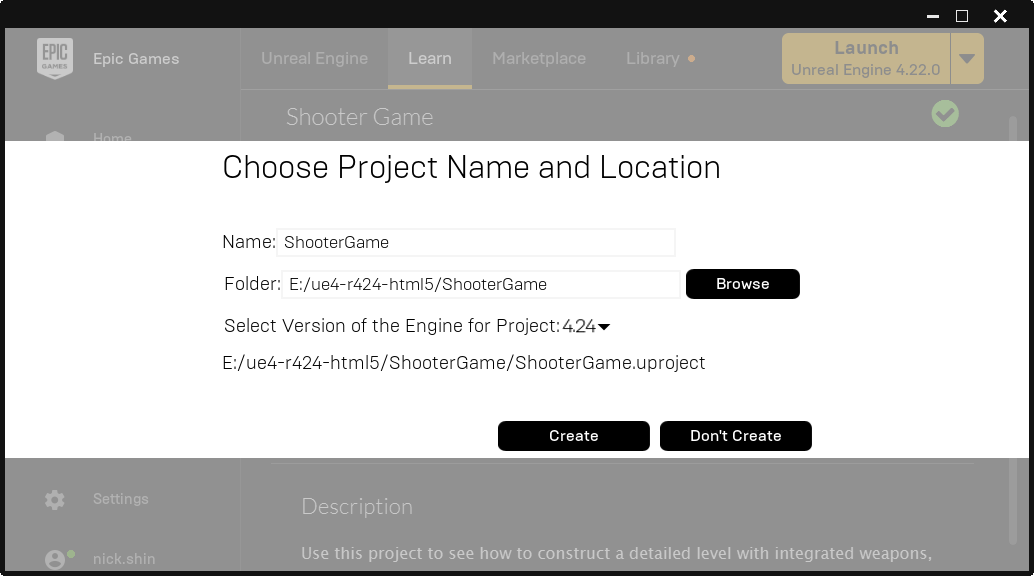
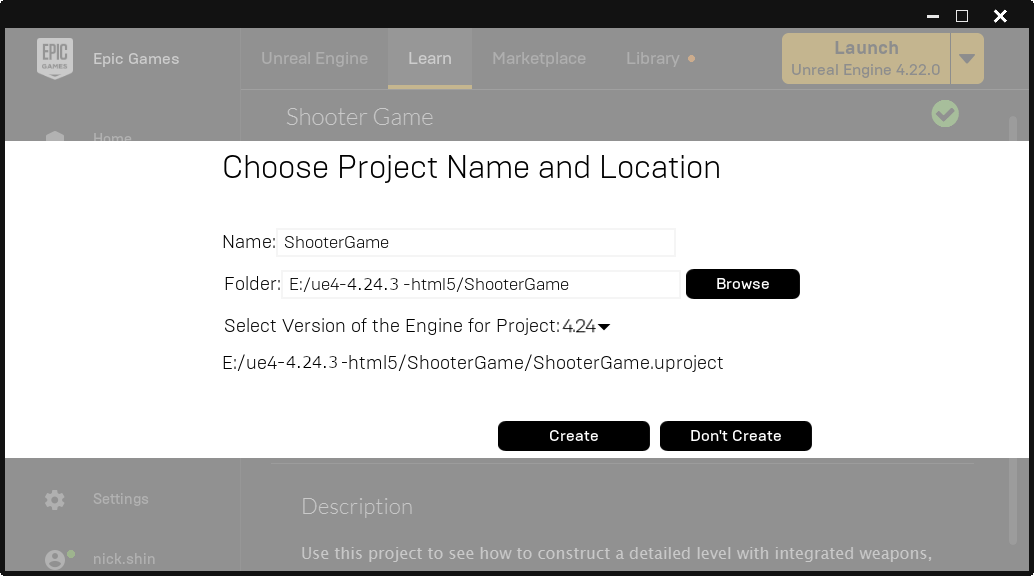
update UE4 HTML5's docs to use 4.24.3-html5-1.39.18 branch

Changed region(s): [[0.2785, 0.5938, 0.7118, 0.6562], [0.3404, 0.4688, 0.5571, 0.5]]

diff --git a/Platforms/HTML5/HowTo/README.1.emscripten.UE4.HTML5.md b/Platforms/HTML5/HowTo/README.1.emscripten.UE4.HTML5.md
@@ -15,7 +15,7 @@ this page will show you how to:
 ## First Things First
 
 back in [Get Source File](README.0.building.UE4.Editor.md#get-source-files), a clone of a
-special branch based on Release-4.24 was used (which was put in (e.g.) `.../ue4-r424-html5`
+special branch based on Release-4.24.3 was used (which was put in (e.g.) `.../ue4-4.24.3-html5`
 and will be used in this HowTo page) -- with the HTML5 platform files already populated.
 
 - NOTE: this is the last snapshot for HTML5 that is now "no longer supported" by Epic Games
@@ -58,7 +58,7 @@ in order to package Unreal Engine for HTML5, we need to perform a number of step
 to get the UE4 Editor able to package for HTML5.
 - NOTE: this only needs to be done **once** (per local repo)
 
-all of these steps are all gathered in the (e.g.) `.../ue4-r424-html5/Engine/Platforms/HTML5/HTML5Setup.sh`
+all of these steps are all gathered in the (e.g.) `.../ue4-4.24.3-html5/Engine/Platforms/HTML5/HTML5Setup.sh`
 build scripts.
 
 
@@ -68,8 +68,8 @@ open `git-bash`
 - this was installed as part of the
 	[Development Environment Requirements](README.0.building.UE4.Editor.md#development-environment-requirements) section
 - change the directory to where your UE4 was cloned to
-	- e.g. `cd ue4-r424-html5`
-- or, you can use **File Explorer** and right click on the **ue4-r424-html5** folder and select `Git Bash Here`
+	- e.g. `cd ue4-4.24.3-html5`
+- or, you can use **File Explorer** and right click on the **ue4-4.24.3-html5** folder and select `Git Bash Here`
 
 
 ### on Mac and Linux
@@ -78,7 +78,7 @@ open the Terminal
 
 - change directory to the location where UE4 was cloned to (as we have seen
 	in the [Generate Project/Make Files](README.0.building.UE4.Editor.md#generate-projectmake-files) section)
-	- e.g. `cd ue4-r424-html5`
+	- e.g. `cd ue4-4.24.3-html5`
 
 
 ### Fetch EMSDK and Build ThirdPary Libraries for HTML5
@@ -87,7 +87,7 @@ in `git-bash` (for windows) or in the `terminal` (for mac or linux), do the
 following (yes, these commands will work the same on all 3 OS):
 
 ```bash
-# remember, we are now in the ue4-r424-html5 folder
+# remember, we are now in the ue4-4.24.3-html5 folder
 cd Engine/Platforms/HTML5
 ./HTML5Setup.sh
 ```
@@ -168,7 +168,7 @@ let's go over this part [again](README.0.building.UE4.Editor.md#window-2) now th
 					just in case you are see rendering issues on your projects
 		- Platforms -> HTML5
 			- Emscripten -> **Multithreading support**
-				- for 4.24 -- this MUST be enabled (there's a (animation curve) crash bug in single threaded mode
+				- for 4.24 (as well as 4.24.3) -- this MUST be enabled (there's a (animation curve) crash bug in single threaded mode
 					that is slated to be fixed in 4.25)
 
 
@@ -561,7 +561,7 @@ above.
 in `git-bash` (for windows) or in the `terminal` (for mac or linux):
 
 ```bash
-# remember, we are now in the ue4-r424-html5 folder
+# remember, we are now in the ue4-4.24.3-html5 folder
 cd Engine/Platforms/HTML5
 ./HTML5Setup.sh
 ```
@@ -579,7 +579,7 @@ again, this may take an hour or so to complete.
 ### HTML5Setup.sh Deep Dive
 
 follow along this explaination by opening a page to
-[HTML5Setup.sh](https://github.com/UnrealEngineHTML5/UnrealEngine/blob/4.24-html5/Engine/Platforms/HTML5/HTML5Setup.sh)
+[HTML5Setup.sh](https://github.com/UnrealEngineHTML5/UnrealEngine/blob/4.24.3-html5-1.39.18/Engine/Platforms/HTML5/HTML5Setup.sh)
 file.
 - again: if you see a `404 This is not the web page you are looking for` error
 	- `Remember to link your Epic Games Account to your GitHub account.` See [HERE](../../../README.md) for more details.

diff --git a/Platforms/HTML5/HowTo/README.2.advanced.UE4.HTML5.md b/Platforms/HTML5/HowTo/README.2.advanced.UE4.HTML5.md
@@ -51,7 +51,7 @@ to download the **ShooterGame** project:
 - click on Create Project
 - pick the path to download the project to
 	- in this example, i have put ShooterGame in the same folder where **Engine**
-		is -- i.e. `.../ue4-r424-html5/ShooterGame`.  it doesn't have to be there.
+		is -- i.e. `.../ue4-4.24.3-html5/ShooterGame`.  it doesn't have to be there.
 		but, for this demo, you can put it there to follow along these instructions.
 - select the engine version: 4.24
 - click on Create
@@ -95,8 +95,8 @@ to start with.
 
 #### on Windows via CommandPrompt
 
-- open `CommandPrompt` to ue4-r424-html5
-	- e.g. `cd ...\ue4-r424-html5`
+- open `CommandPrompt` to ue4-4.24.3-html5
+	- e.g. `cd ...\ue4-4.24.3-html5`
 - re-generate the visual studio solution file
 	- `GenerateProjectFiles.bat`
 - open the generated visual studio solution (UE4.sln)
@@ -104,8 +104,8 @@ to start with.
 
 #### on Mac via Terminal
 
-- open `terminal` to ue4-r424-html5
-	- e.g. `cd .../ue4-r424-html5`
+- open `terminal` to ue4-4.24.3-html5
+	- e.g. `cd .../ue4-4.24.3-html5`
 - re-generate the xcode project file
 	- `GenerateProjectFiles.command`
 - open the generated xcode project (UE4.xcworkspace)
@@ -116,8 +116,8 @@ to start with.
 
 #### on Linux via Terminal
 
-- open `terminal` to ue4-r424-html5
-	- e.g. `cd .../ue4-r424-html5`
+- open `terminal` to ue4-4.24.3-html5
+	- e.g. `cd .../ue4-4.24.3-html5`
 - re-generate the Makefiles
 	- `GenerateProjectFiles.sh`
 - and then:
@@ -185,7 +185,7 @@ open a listening port to host a session.
 ### Configuring UE4 Projects with WebSocket Networking
 
 in the previous previous HowTo, it was mentioned that the clone of a special
-branch based on Release-4.24 was made with the HTML5 platform files already
+branch based on Release-4.24.3 was made with the HTML5 platform files already
 populated.  this includes **config.ini** files.
 
 in this HowTo, we will go through the steps to make UE4 networking projects work

diff --git a/Platforms/HTML5/HowTo/README.0.building.UE4.Editor.md b/Platforms/HTML5/HowTo/README.0.building.UE4.Editor.md
@@ -49,14 +49,14 @@ and, ensure you have the respective compiler tools for your desktop:
 * * *
 ## Get Source Files
 
-clone Unreal Engine (in this case, a fork of UE4 release 4.24 that has already
+clone Unreal Engine (in this case, a fork of UE4 release 4.24.3 that has already
 been branched with the HTML5 files populated in the `Unreal Engine platforms
 extension` path).
 
-in this example, clone to a folder named `ue4-r424-html5`
+in this example, clone to a folder named `ue4-4.24.3-html5`
 
 ```
-git clone -b 4.24-html5 --single-branch https://github.com/UnrealEngineHTML5/UnrealEngine ue4-r424-html5
+git clone -b 4.24.3-html5-1.39.18 --single-branch https://github.com/UnrealEngineHTML5/UnrealEngine ue4-4.24.3-html5
 ```
 
 remember, HTML5 is no longer an officially supported platform at Epic Games -- hence the `UnrealEngineHTML5` github account.
@@ -82,8 +82,8 @@ HEADS UP: the first time running this may take a while:
 ```
 # open git-bash
 # or, you can use "File Explorer" and right click on the
-# "ue4-r424-html5" folder and select "Git Bash Here"
-cd ue4-r424-html5
+# "ue4-4.24.3-html5" folder and select "Git Bash Here"
+cd ue4-4.24.3-html5
 ./Setup.bat
 
 cd Engine/Platforms/HTML5
@@ -99,7 +99,7 @@ cd -
 
 ```
 # open a terminal to
-cd ue4-r424-html5
+cd ue4-4.24.3-html5
 ./Setup.command
 
 cd Engine/Platforms/HTML5
@@ -115,7 +115,7 @@ cd -
 
 ```
 # open a terminal to
-cd ue4-r424-html5
+cd ue4-4.24.3-html5
 ./Setup.sh
 
 cd Engine/Platforms/HTML5

diff --git a/Platforms/HTML5/HTML5SDKRequirements/HTML5SDKRequirements.md b/Platforms/HTML5/HTML5SDKRequirements/HTML5SDKRequirements.md
@@ -17,6 +17,20 @@ In this page you'll find hardware and software development kit (SDK) requirement
 | **SDK Version** | Emscripten 1.39.0 |
 | **Supported Web Browsers** | [Google Chrome 64-bit](https://www.google.com/chrome/beta/), [Firefox 64-bit](https://www.mozilla.org/en-US/firefox/all/) |
 
+### Special: HTML5's Unreal Engine 4.24.3
+
+Note: Epic LOCKS down toolchains on all `major.minor` updates.
+They do not allow SDK version numbers to change during `major.minor.patch` updates.
+
+But, since HTML5 is community driven and emscription DOES NOT lock down the version numbers
+of TOOLS used (i.e. can be incremented at will -- again, this is the tools used -- not to
+be confused with emscripten itself), there are periods of time when upgrading the toolchain
+will become possible.  In this case, for UE 4.24.3, emscripten 1.39.18 is possible.
+
+| Software Requirements ||
+| --- | --- |
+| **SDK Version** | Emscripten 1.39.18 |
+
 
 ## Unreal Engine 4.23
 

diff --git a/README.md b/README.md
@@ -11,7 +11,7 @@ This is the documentation for the Community-supported HTML5 Platform Extension f
 * * *
 
 After **linking your [Epic Games Account](https://www.epicgames.com/account/connected) to your GitHub account**,
-you can find the HTML5 Platform Extenion repository [HERE](https://github.com/UnrealEngineHTML5/UnrealEngine/tree/4.24/Engine/Platforms/HTML5).
+you can find the HTML5 Platform Extenion repository [HERE](https://github.com/UnrealEngineHTML5/UnrealEngine/tree/4.24.3-html5-1.39.18/Engine/Platforms/HTML5).
 
 - NOTE: if you still see a `404 This is not the web page you are looking for` error
 	- Double check you have linked your Epic Games and GitHub accounts [#12](https://github.com/UnrealEngineHTML5/Documentation/issues/12#issuecomment-597729773)

diff --git a/Platforms/HTML5/HowTo/README.4.faq.UE4.HTML5.md b/Platforms/HTML5/HowTo/README.4.faq.UE4.HTML5.md
@@ -78,8 +78,8 @@ this should show you the crash stack.  begin the BUGHUNT!
 ### i already have UnrealEngine, how do i get the HTML5 platform extension
 
 ```bash
-git fetch https://github.com/UnrealEngineHTML5/UnrealEngine 4.24-html5
-git checkout 4.24-html5
+git fetch https://github.com/UnrealEngineHTML5/UnrealEngine 4.24.3-html5-1.39.18
+git checkout 4.24.3-html5-1.39.18
 ```
 
 

diff --git a/Platforms/HTML5/HowTo/README.3.debugging.UE4.HTML5.md b/Platforms/HTML5/HowTo/README.3.debugging.UE4.HTML5.md
@@ -161,7 +161,7 @@ __DATA__
 
 ```bash
 #!/bin/sh
-find /work/ue4-r424-html5/ShooterGame/Saved/ShaderDebugInfo/GLSL_ES2_WEBGL -name "*.glsl" -print | while read i; do
+find /work/ue4-4.24.3-html5/ShooterGame/Saved/ShaderDebugInfo/GLSL_ES2_WEBGL -name "*.glsl" -print | while read i; do
 	results=`cat "$i" | ./scan.pl`
 	if [ "$results" == "FOUND" ]; then
 		echo $i
